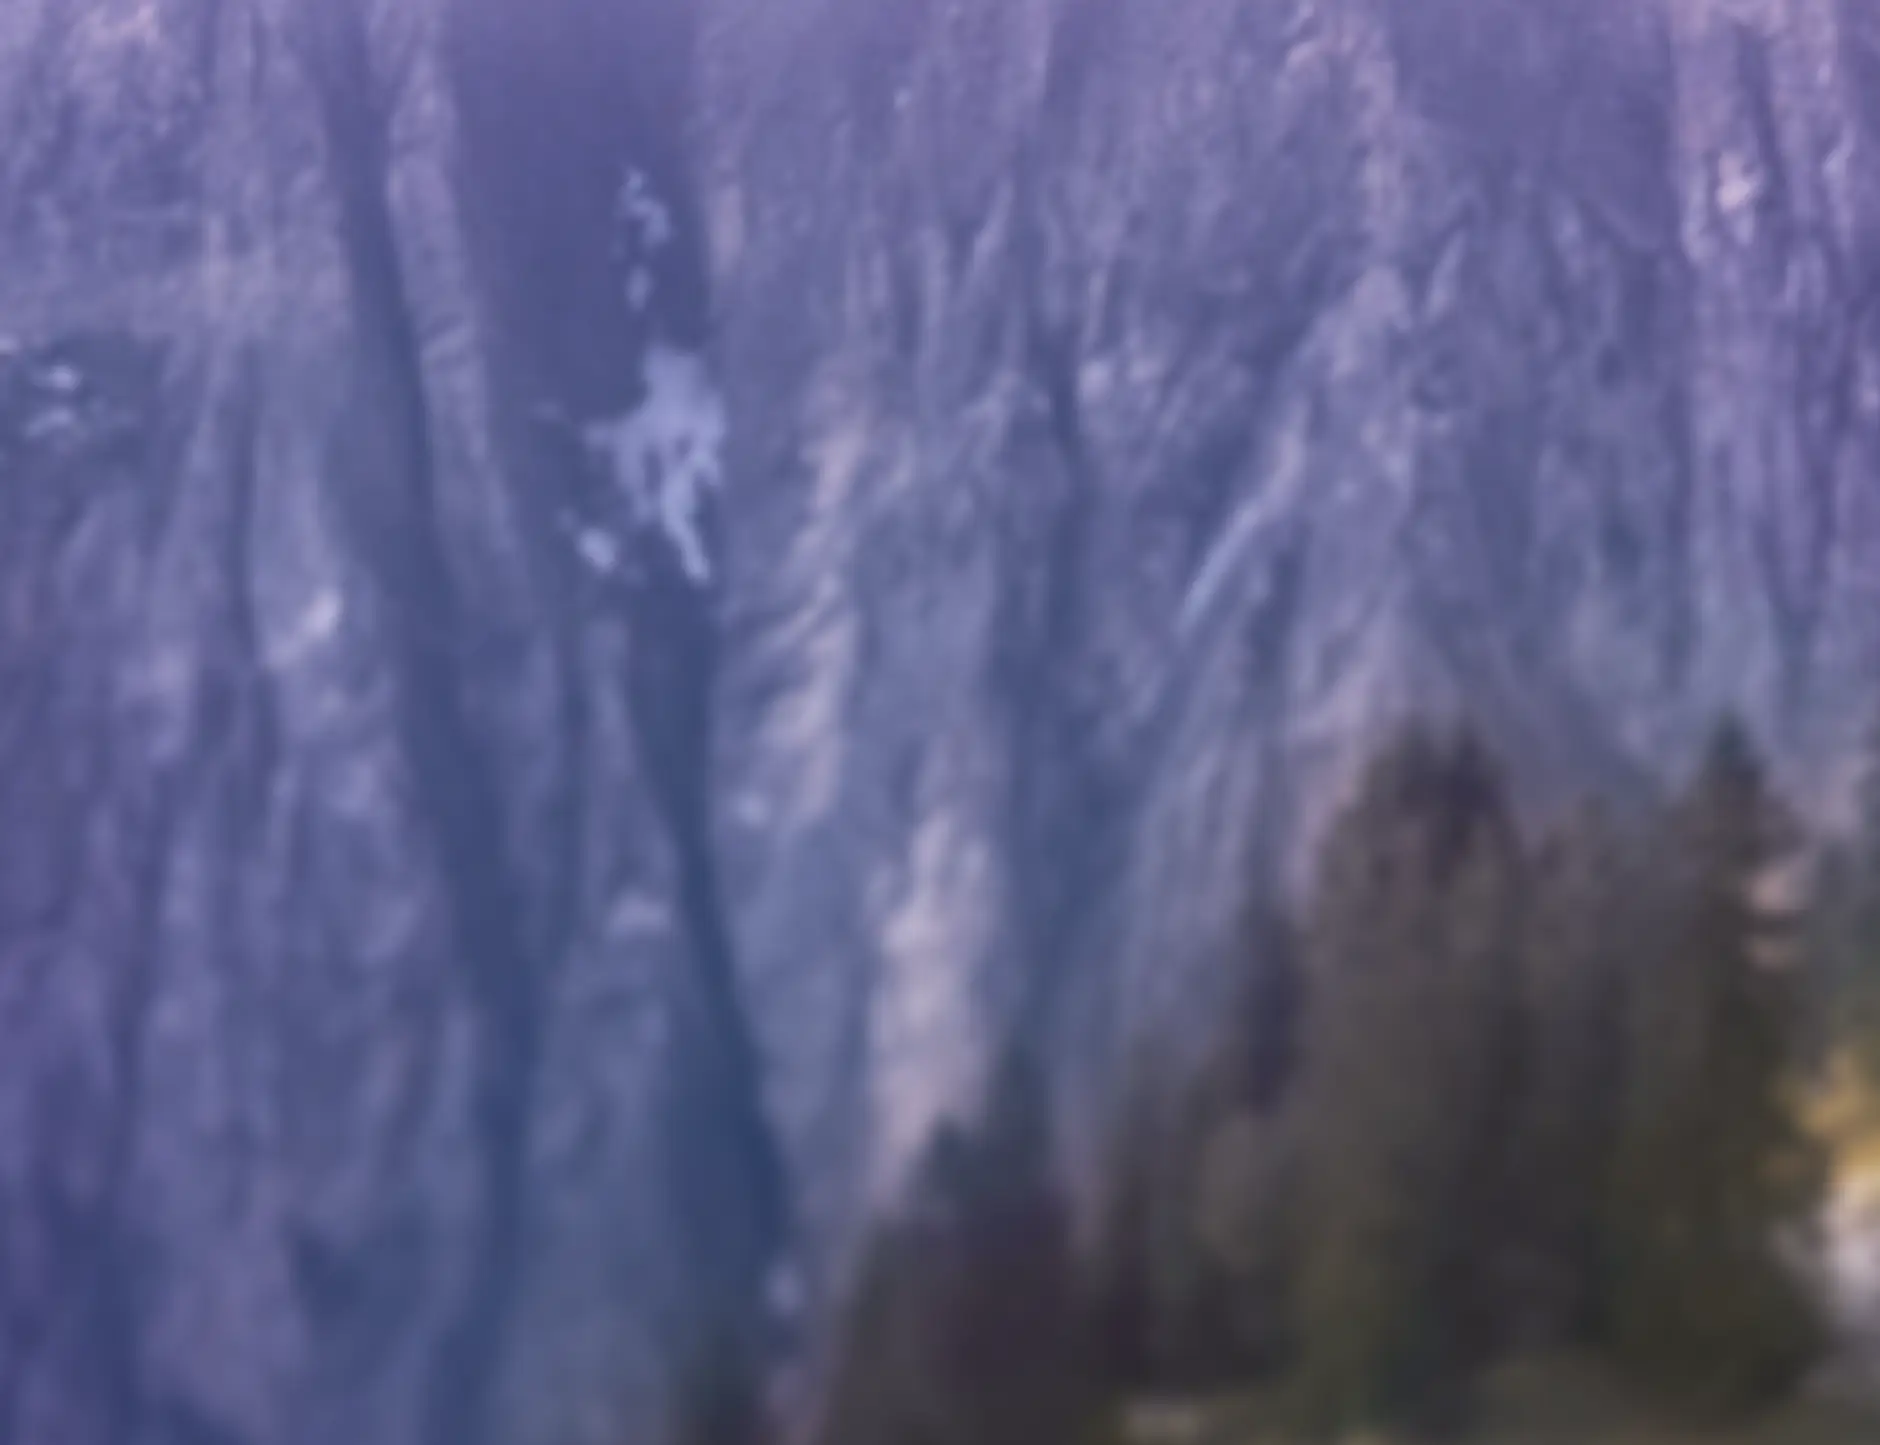
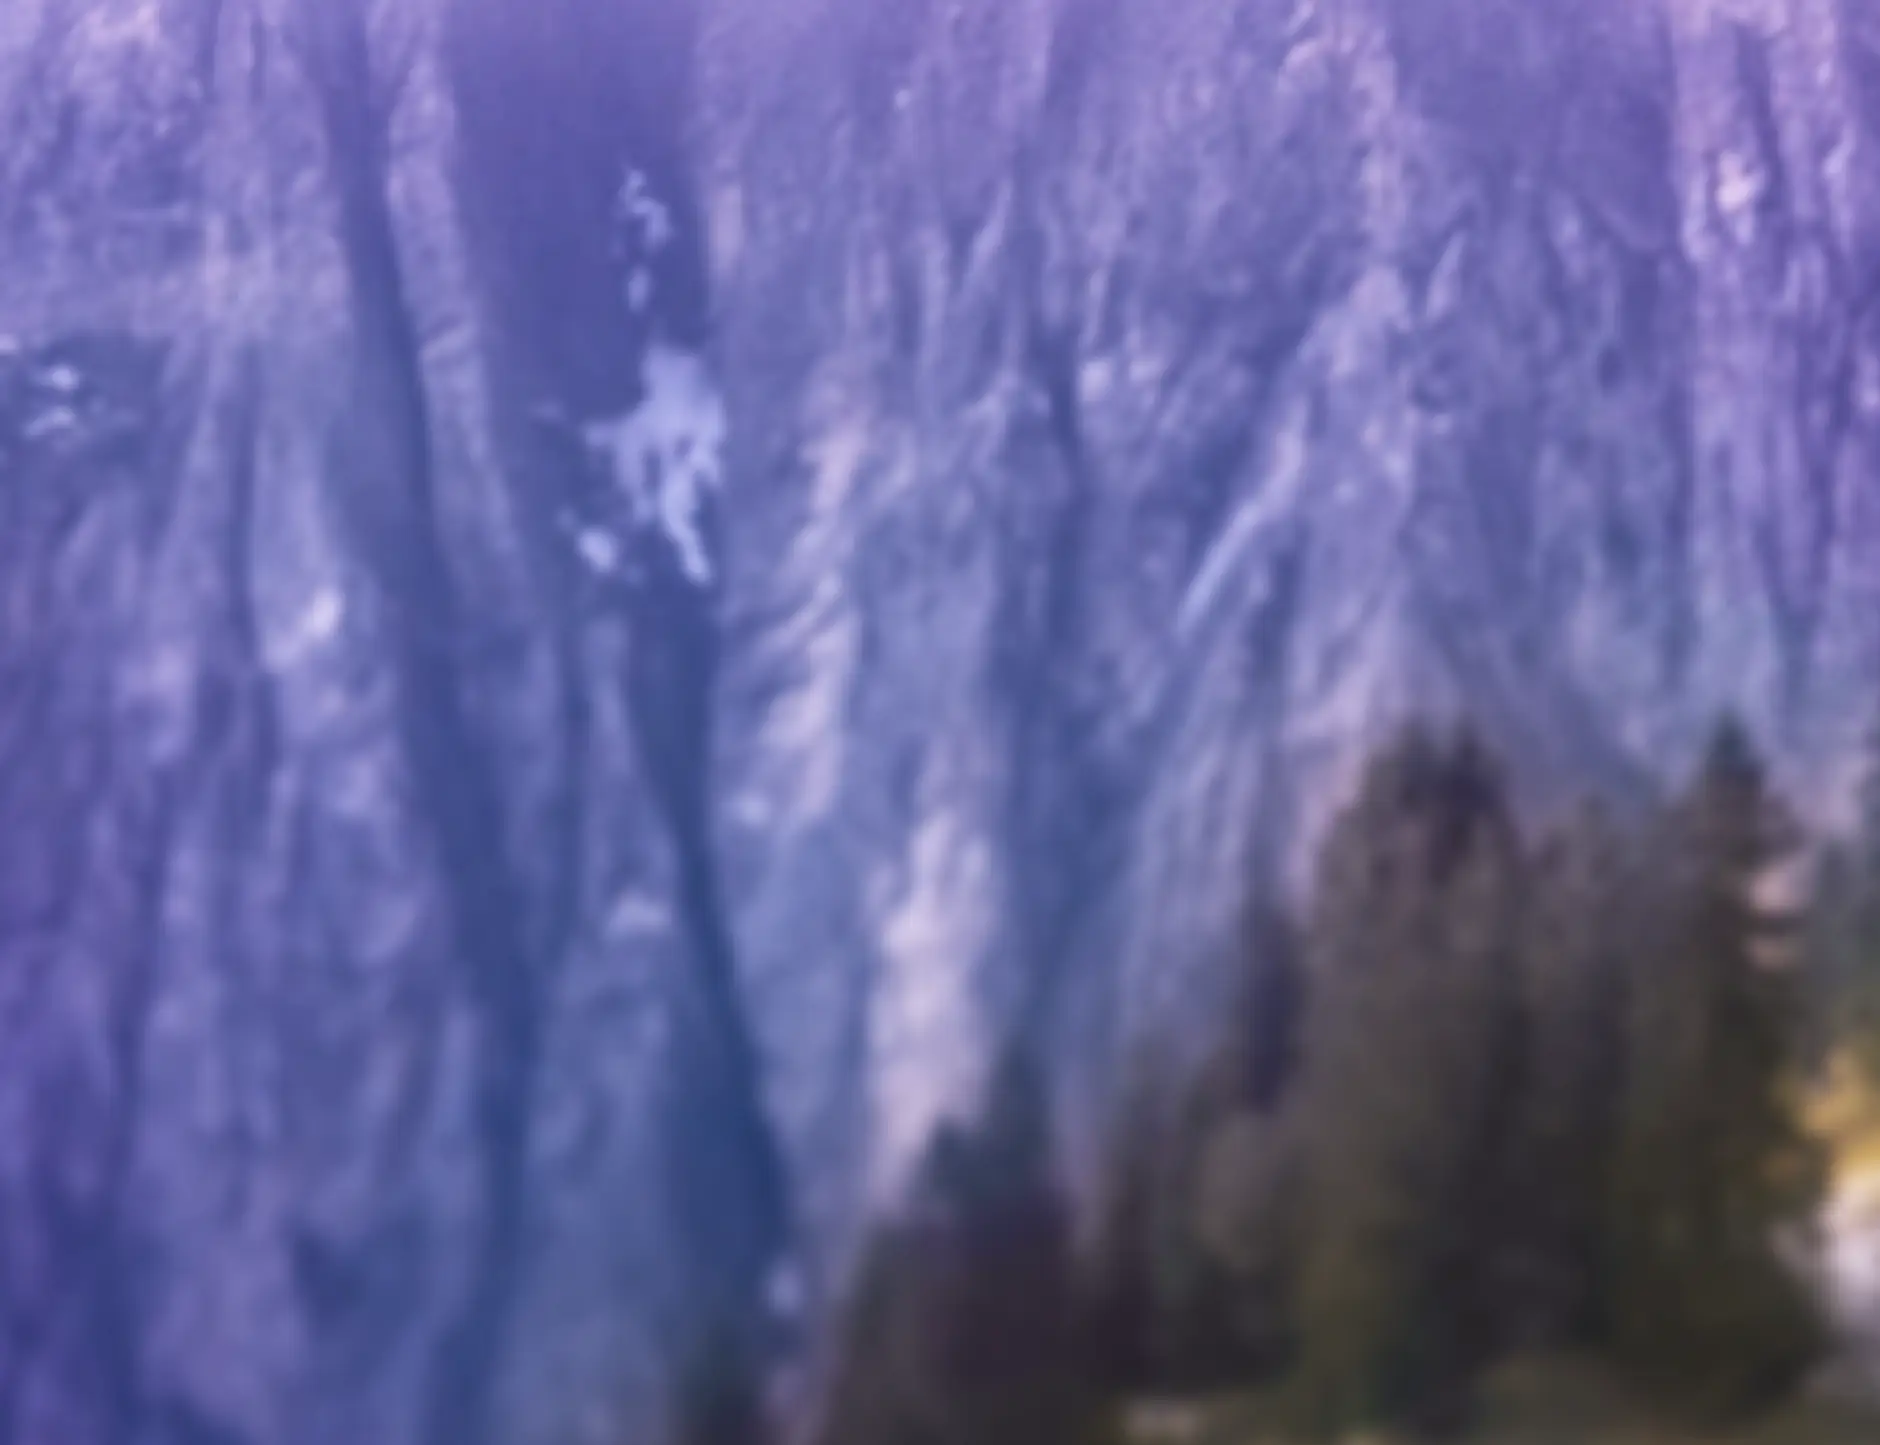
Add parallax to values Fix wrapping Improve background colors

diff --git a/app/values.ts b/app/values.ts
@@ -1,16 +1,19 @@
 import { seededRand } from './util'
 
 const bg = [
-  ' from-nt1-orange-light to-nt1-orange-dark text-stone-700',
+  'from-nt1-orange-light to-nt1-orange-dark text-stone-700',
   'from-nt1-violet-light to-nt1-violet-dark text-white',
 ] as const
 
-const rand = seededRand('values_3')
+const parallax = ['parallax-0', 'parallax-5', 'parallax-10'] as const
+
+const rand = seededRand('values_2')
 
 export interface Value {
   slug: string
   icon: string
   bgClass: string
+  parallax: string
 }
 
 export const values: Value[] = [
@@ -18,30 +21,36 @@ export const values: Value[] = [
     slug: 'fast',
     icon: 'material-symbols:rocket-launch-outline-rounded',
     bgClass: bg[Math.floor(rand() * bg.length)]!,
+    parallax: parallax[Math.floor(rand() * parallax.length)]!,
   },
   {
     slug: 'safe',
     icon: 'material-symbols:security-rounded',
     bgClass: bg[Math.floor(rand() * bg.length)]!,
+    parallax: parallax[Math.floor(rand() * parallax.length)]!,
   },
   {
     slug: 'private',
     icon: 'material-symbols:eyeglasses-2-rounded',
     bgClass: bg[Math.floor(rand() * bg.length)]!,
+    parallax: parallax[Math.floor(rand() * parallax.length)]!,
   },
   {
     slug: 'future',
     icon: 'material-symbols:history-edu-outline-rounded',
     bgClass: bg[Math.floor(rand() * bg.length)]!,
+    parallax: parallax[Math.floor(rand() * parallax.length)]!,
   },
   {
     slug: 'inclusive',
     icon: 'material-symbols:volunteer-activism-outline-rounded',
     bgClass: bg[Math.floor(rand() * bg.length)]!,
+    parallax: parallax[Math.floor(rand() * parallax.length)]!,
   },
   {
     slug: 'proud',
     icon: 'material-symbols:diversity-2-outline-rounded',
     bgClass: bg[Math.floor(rand() * bg.length)]!,
+    parallax: parallax[Math.floor(rand() * parallax.length)]!,
   },
 ]

diff --git a/app/components/Values.vue b/app/components/Values.vue
@@ -3,12 +3,13 @@
   <div class="with-bg values-bg relative -mt-16 flex py-24">
     <div class="flex min-h-screen w-full items-center justify-center px-4">
       <ul
-        class="flex flex-col items-start justify-center gap-12 md:w-2/3 md:flex-row md:flex-wrap"
+        class="flex flex-col items-start justify-center gap-12 md:flex-row md:flex-wrap"
       >
         <li
-          v-for="(value, i) in values"
+          v-for="value in values"
           :key="value.slug"
           class="shadow-nt1-offwhite w-full overflow-hidden rounded-xl bg-white shadow-2xl sm:w-md"
+          :class="value.parallax"
         >
           <div
             class="flex items-center gap-2 bg-linear-to-t from-[-20%] to-120% p-4"

diff --git a/app/assets/css/main.css b/app/assets/css/main.css
@@ -20,7 +20,6 @@
   outline: none;
 }
 
-
 .with-bg::after {
   display: block;
   content: '';
@@ -70,6 +69,15 @@
     transform-style: inherit;
   }
 
+  .parallax-0 {
+    transform: translateZ(0px) scale(1);
+  }
+  .parallax-2 {
+    transform: translateZ(-0.02px) scale(1.02);
+  }
+  .parallax-5 {
+    transform: translateZ(-0.05px) scale(1.05);
+  }
   .parallax-10 {
     transform: translateZ(-0.1px) scale(1.1);
   }
